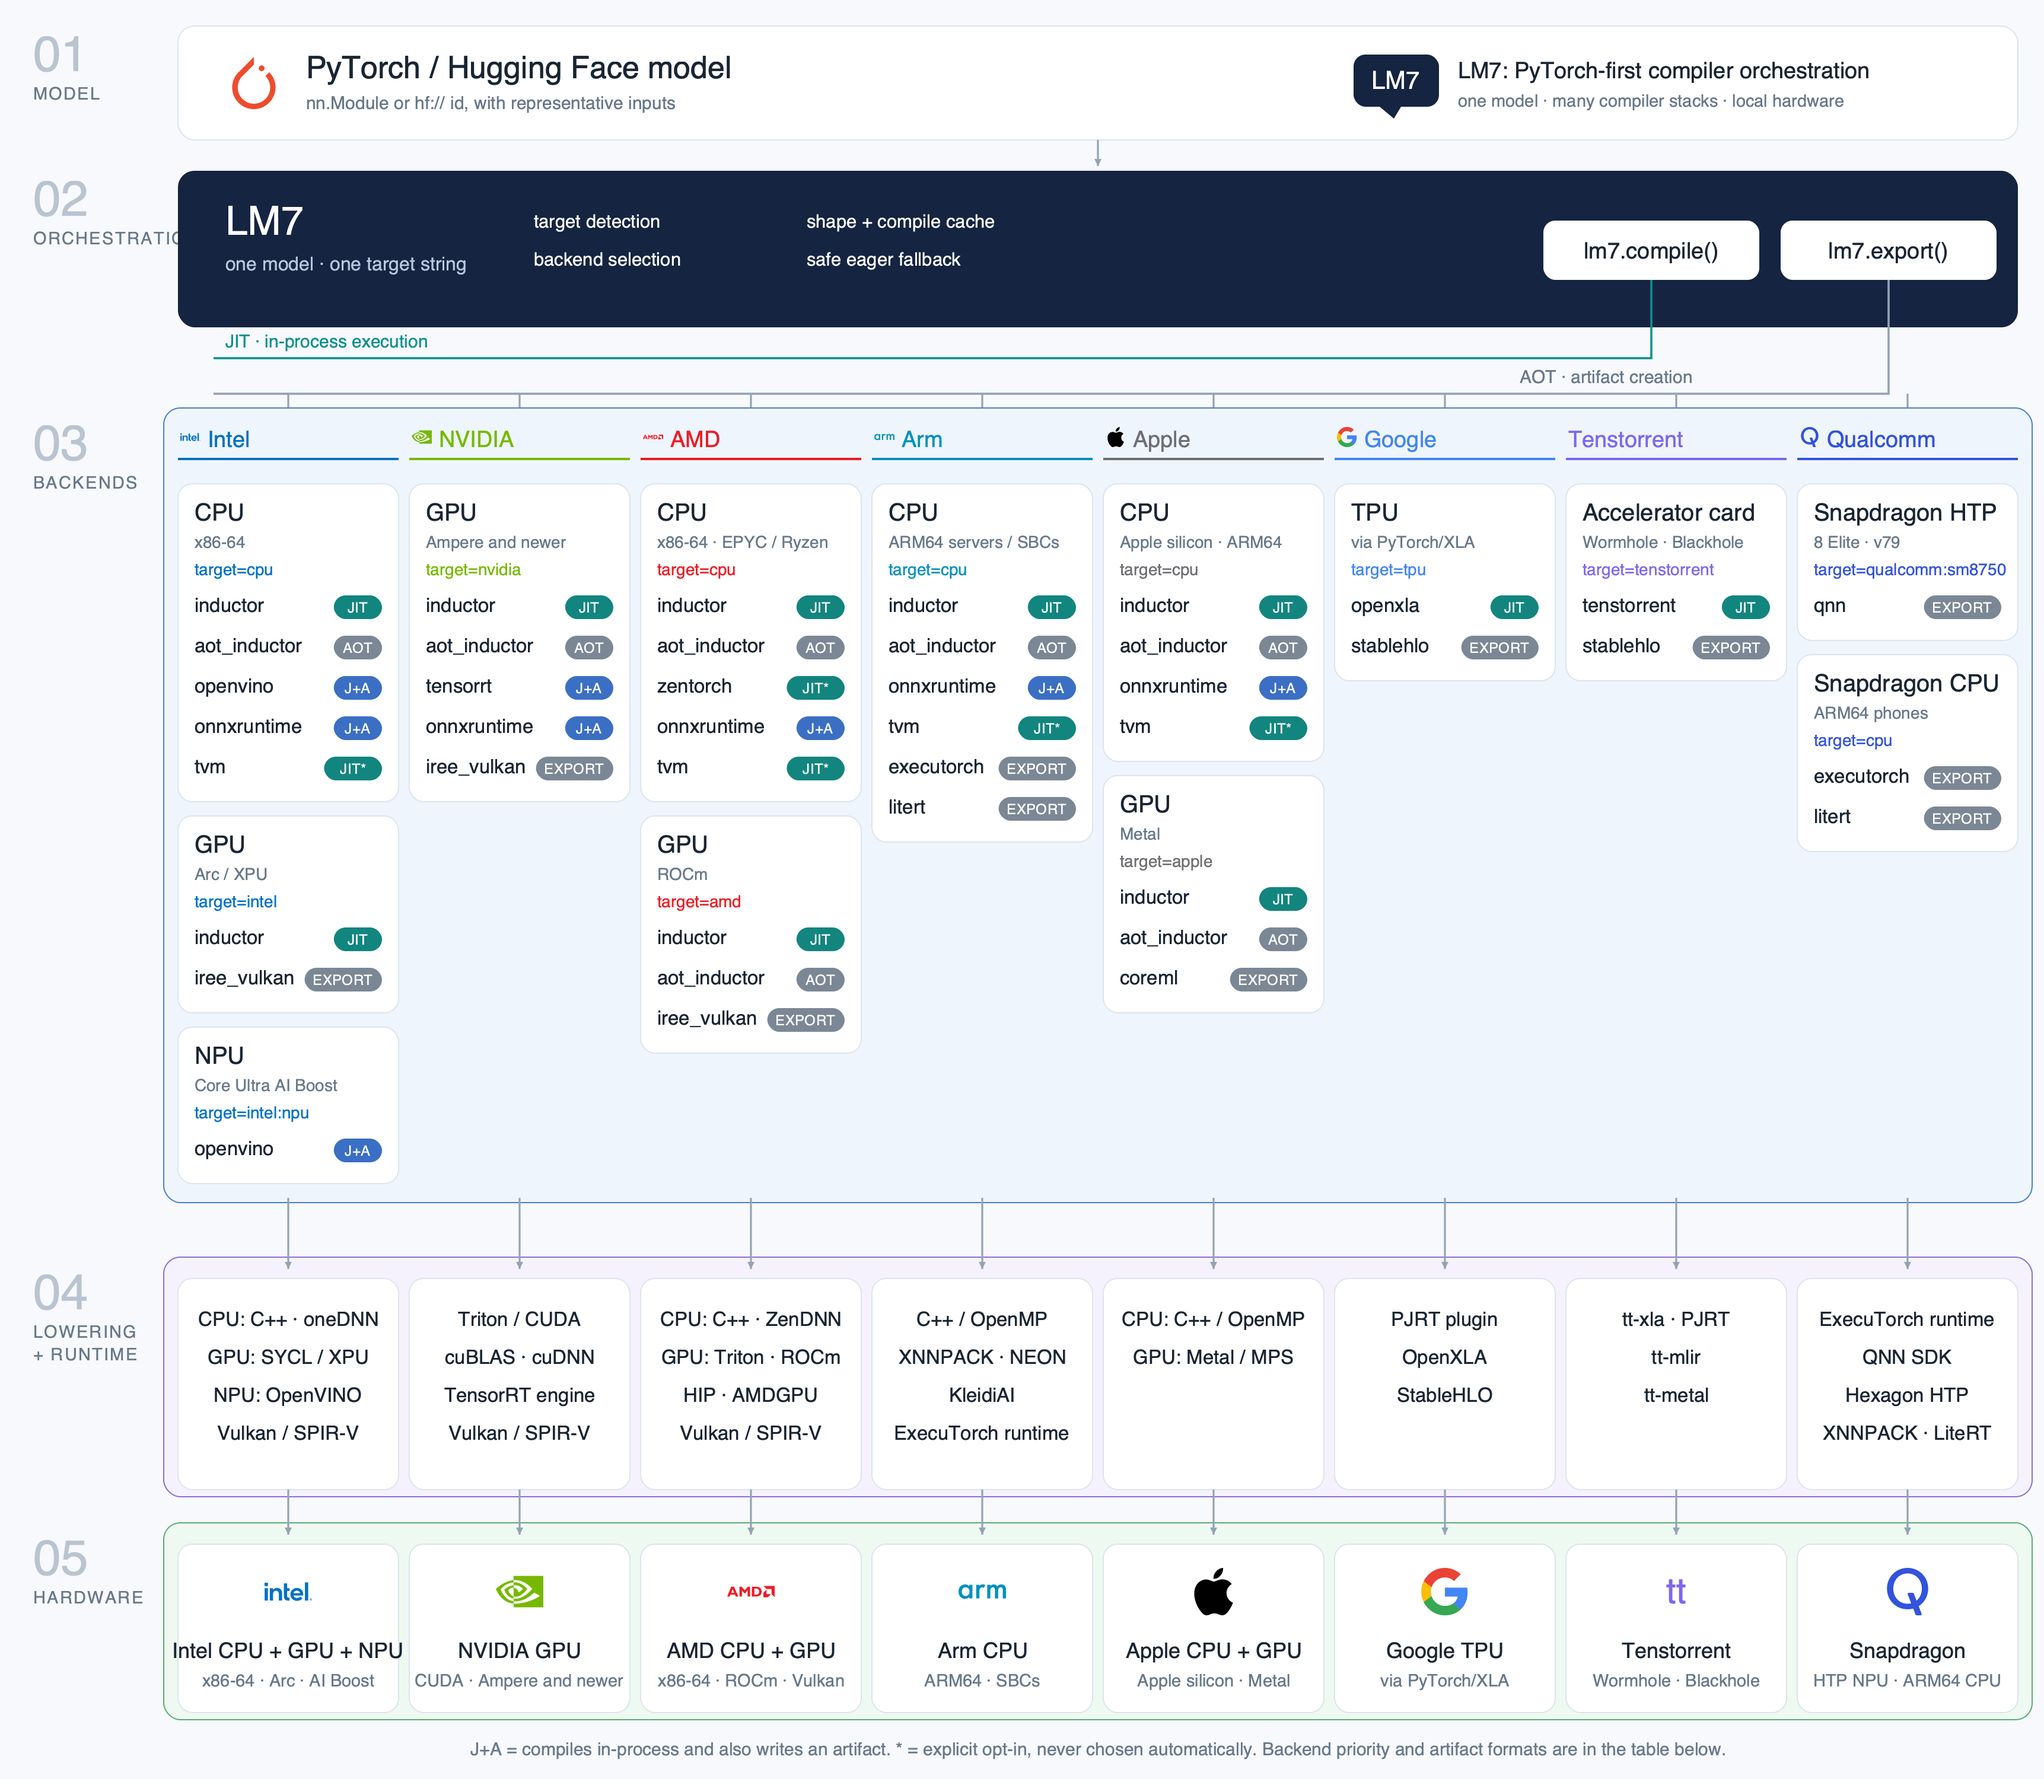
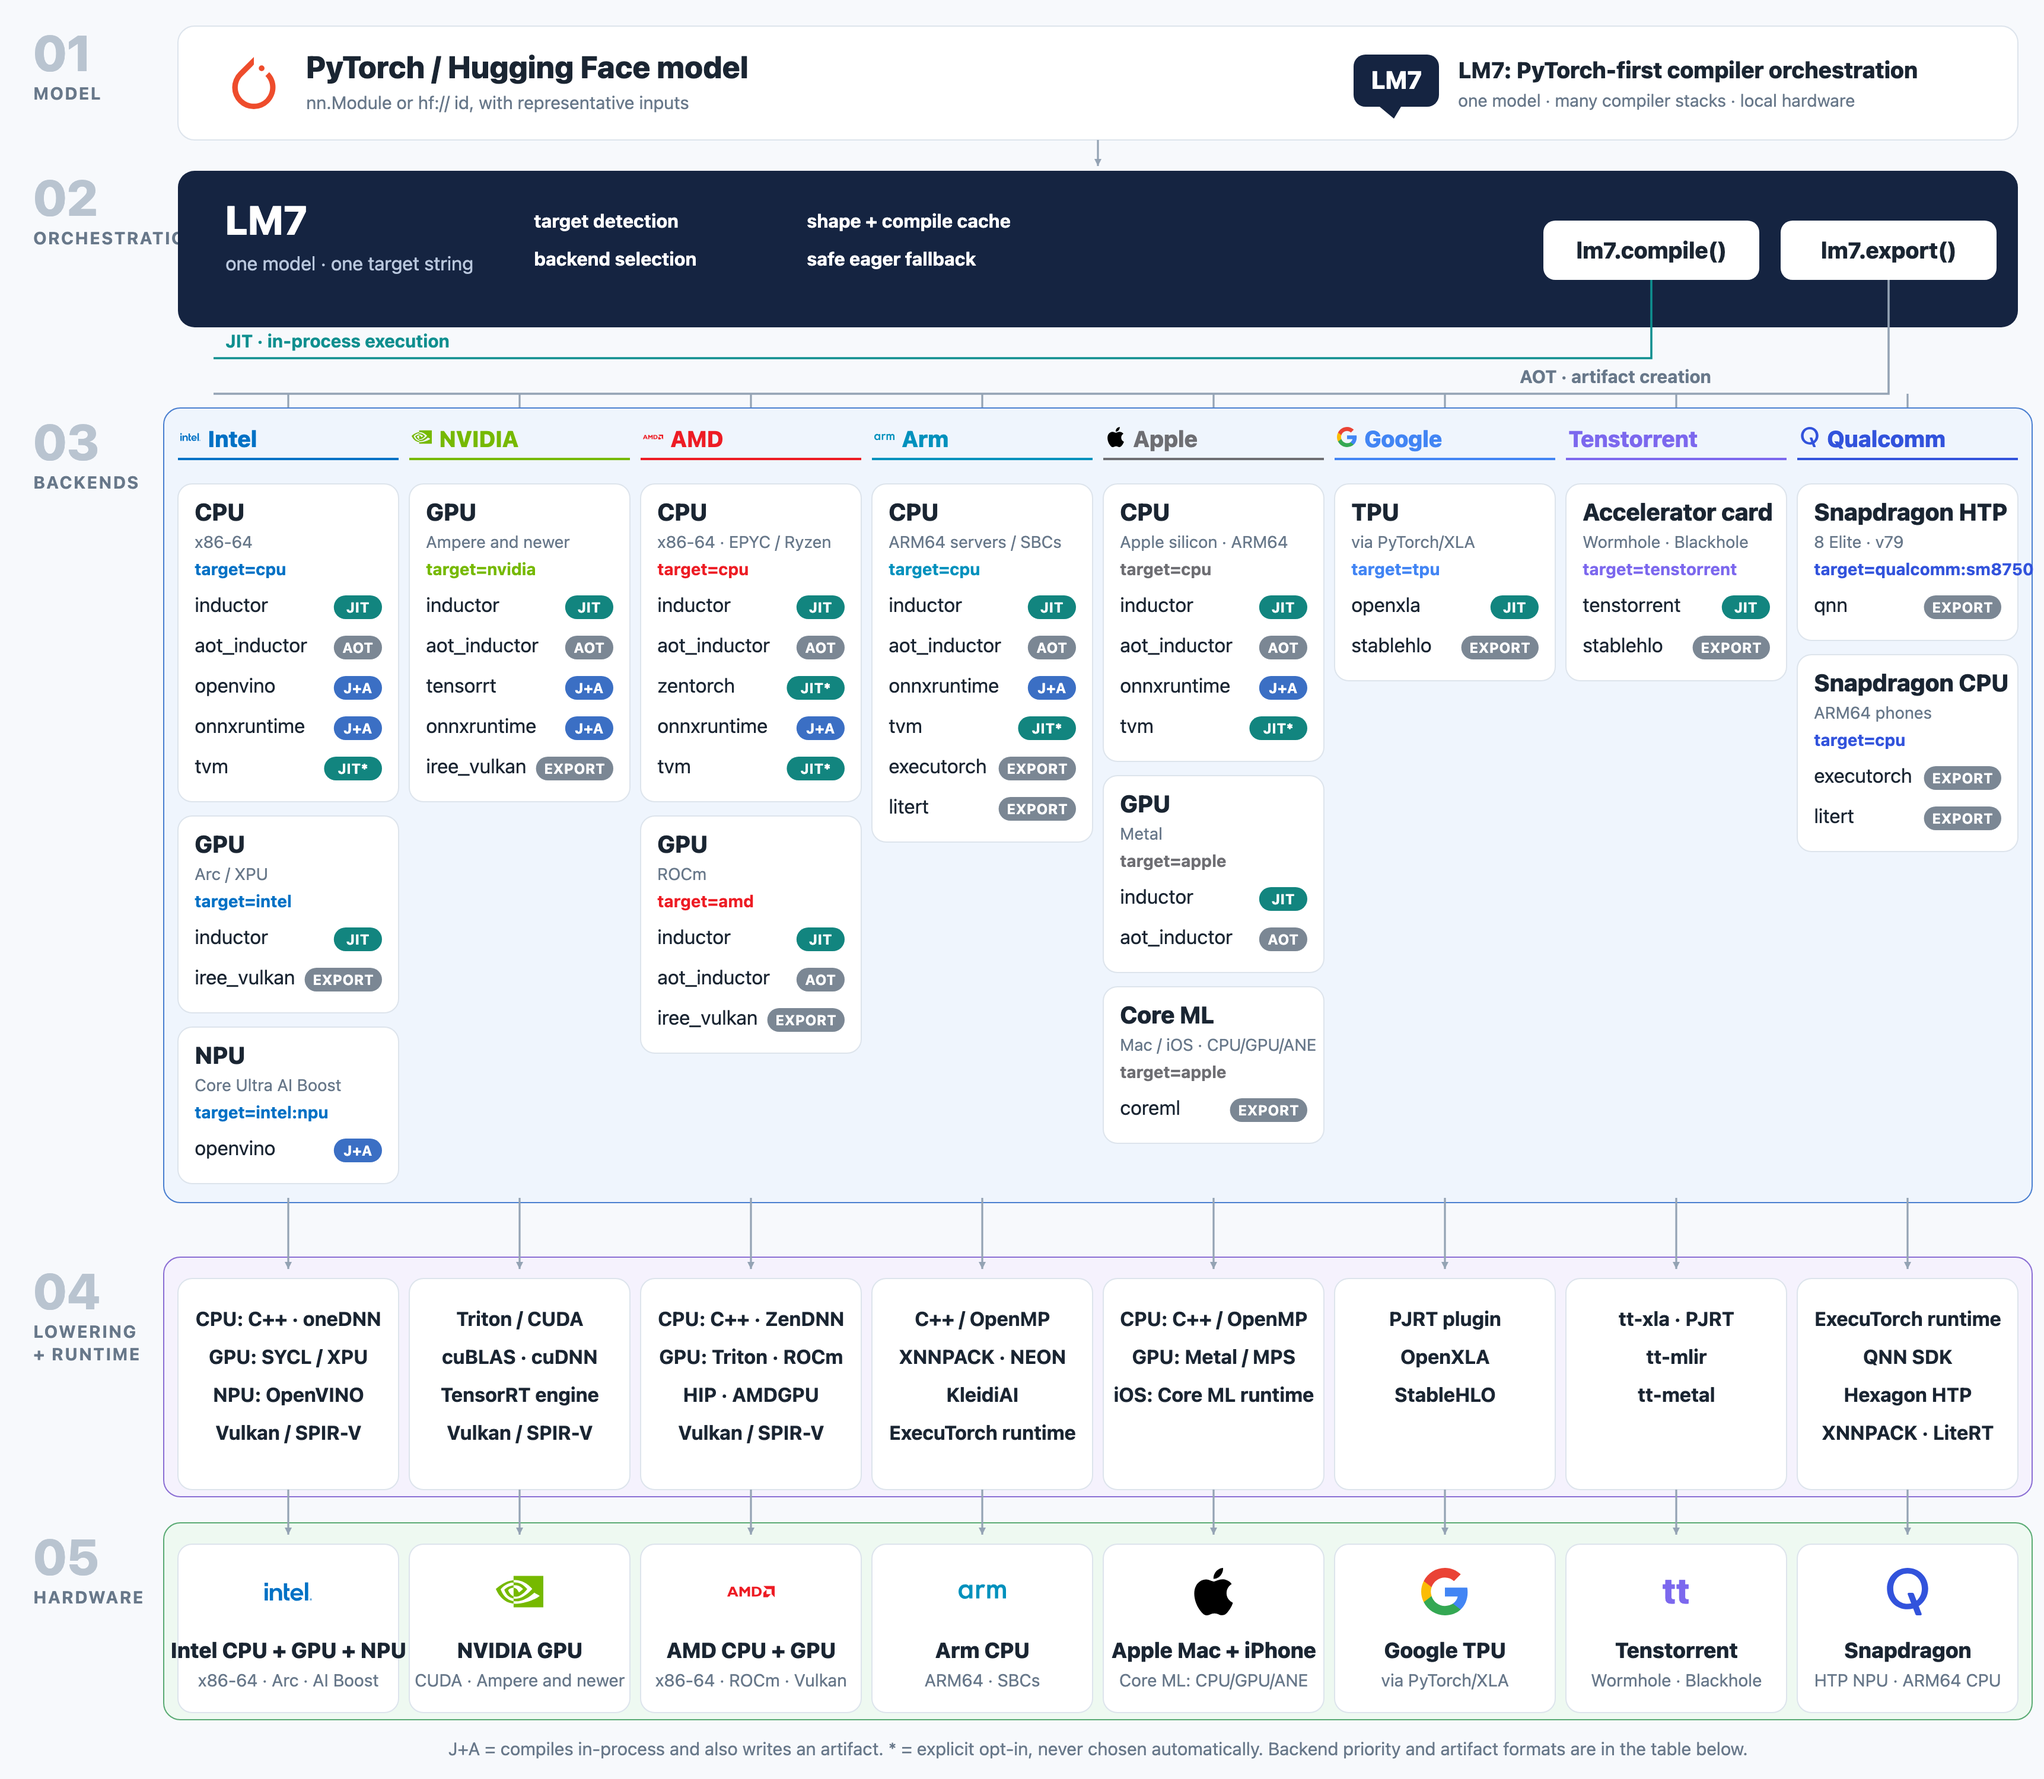
Show Apple Core ML iOS path in README figure

diff --git a/docs/figures/architecture.py b/docs/figures/architecture.py
@@ -203,12 +203,18 @@ COLUMNS = [
                 "GPU",
                 "Metal",
                 "apple",
-                [("inductor", "JIT"), ("aot_inductor", "AOT"), ("coreml", "EXPORT")],
+                [("inductor", "JIT"), ("aot_inductor", "AOT")],
+            ),
+            Silicon(
+                "Core ML",
+                "Mac / iOS · CPU/GPU/ANE",
+                "apple",
+                [("coreml", "EXPORT")],
             ),
         ],
-        runtime=["CPU: C++ / OpenMP", "GPU: Metal / MPS"],
-        hardware="Apple CPU + GPU",
-        hardware_detail="Apple silicon · Metal",
+        runtime=["CPU: C++ / OpenMP", "GPU: Metal / MPS", "iOS: Core ML runtime"],
+        hardware="Apple Mac + iPhone",
+        hardware_detail="Core ML: CPU/GPU/ANE",
     ),
     Column(
         vendor="Google",

diff --git a/README.md b/README.md
@@ -181,7 +181,8 @@ Integration means that LM7 has target and backend code for a toolchain. It does
 | Intel, AMD, Arm, Apple | CPU (x86-64, ARM64) | `cpu` | Inductor, AOTInductor, OpenVINO, ONNX Runtime, eager; explicit/export integrations |
 | NVIDIA | GPU | `nvidia` | Inductor, AOTInductor, TensorRT, ONNX Runtime, eager, IREE Vulkan export |
 | AMD | GPU (ROCm/Vulkan) | `amd` | Inductor, AOTInductor, eager, IREE Vulkan export |
-| Apple | GPU (Metal) | `apple` | Inductor, AOTInductor, eager, Core ML export |
+| Apple | GPU (Metal) | `apple` | Inductor, AOTInductor, eager |
+| Apple | Core ML devices (Mac/iOS CPU, GPU, ANE) | `apple` | Core ML export; iOS simulator validated, physical iPhone pending |
 | Intel | GPU (XPU/Vulkan) | `intel` | Inductor, eager, IREE Vulkan export |
 | Arm | GPU (Mali/Vulkan) | `arm`, `arm:mali-g715` | IREE Vulkan export; never executed on device |
 | Intel | NPU | `intel:npu` | OpenVINO; mock-tested |
